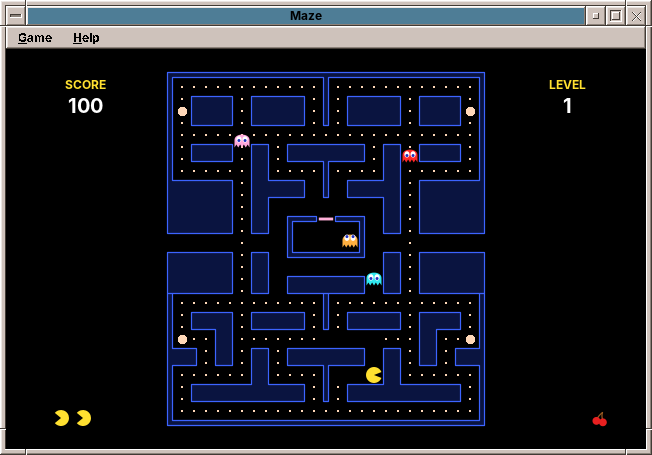
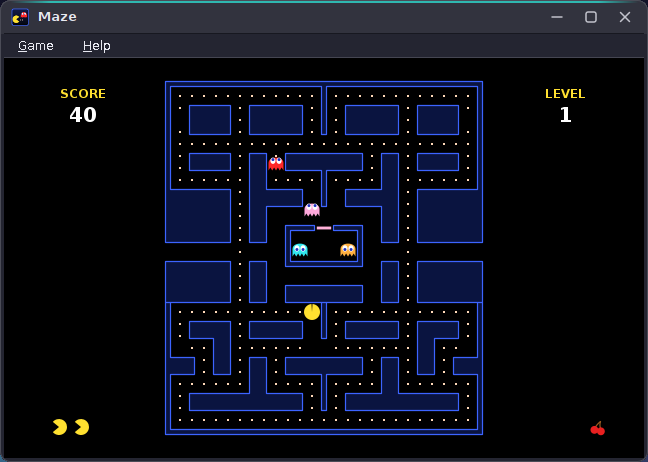
docs(readme): show the Horizon look in the screenshots
The screenshots in docs/screenshots (used by the README and the AppStream
metainfo) showed the classic CDE look. They are replaced by shots in the
Horizon look, Dark scheme; a README without a picture gets one.

Claude-Session: https://claude.ai/code/session_017Pd6NcKy4y87wY8jkALjpZ

diff --git a/README.md b/README.md
@@ -5,6 +5,8 @@
 ![License](https://img.shields.io/badge/license-EUPL--1.2-blue)
 ![Java](https://img.shields.io/badge/Java-25-orange)
 
+![Maze](docs/screenshots/amade-maze-game.png)
+
 ## Playing
 
 - **Enter** or **Space** (or F2) starts a game.
